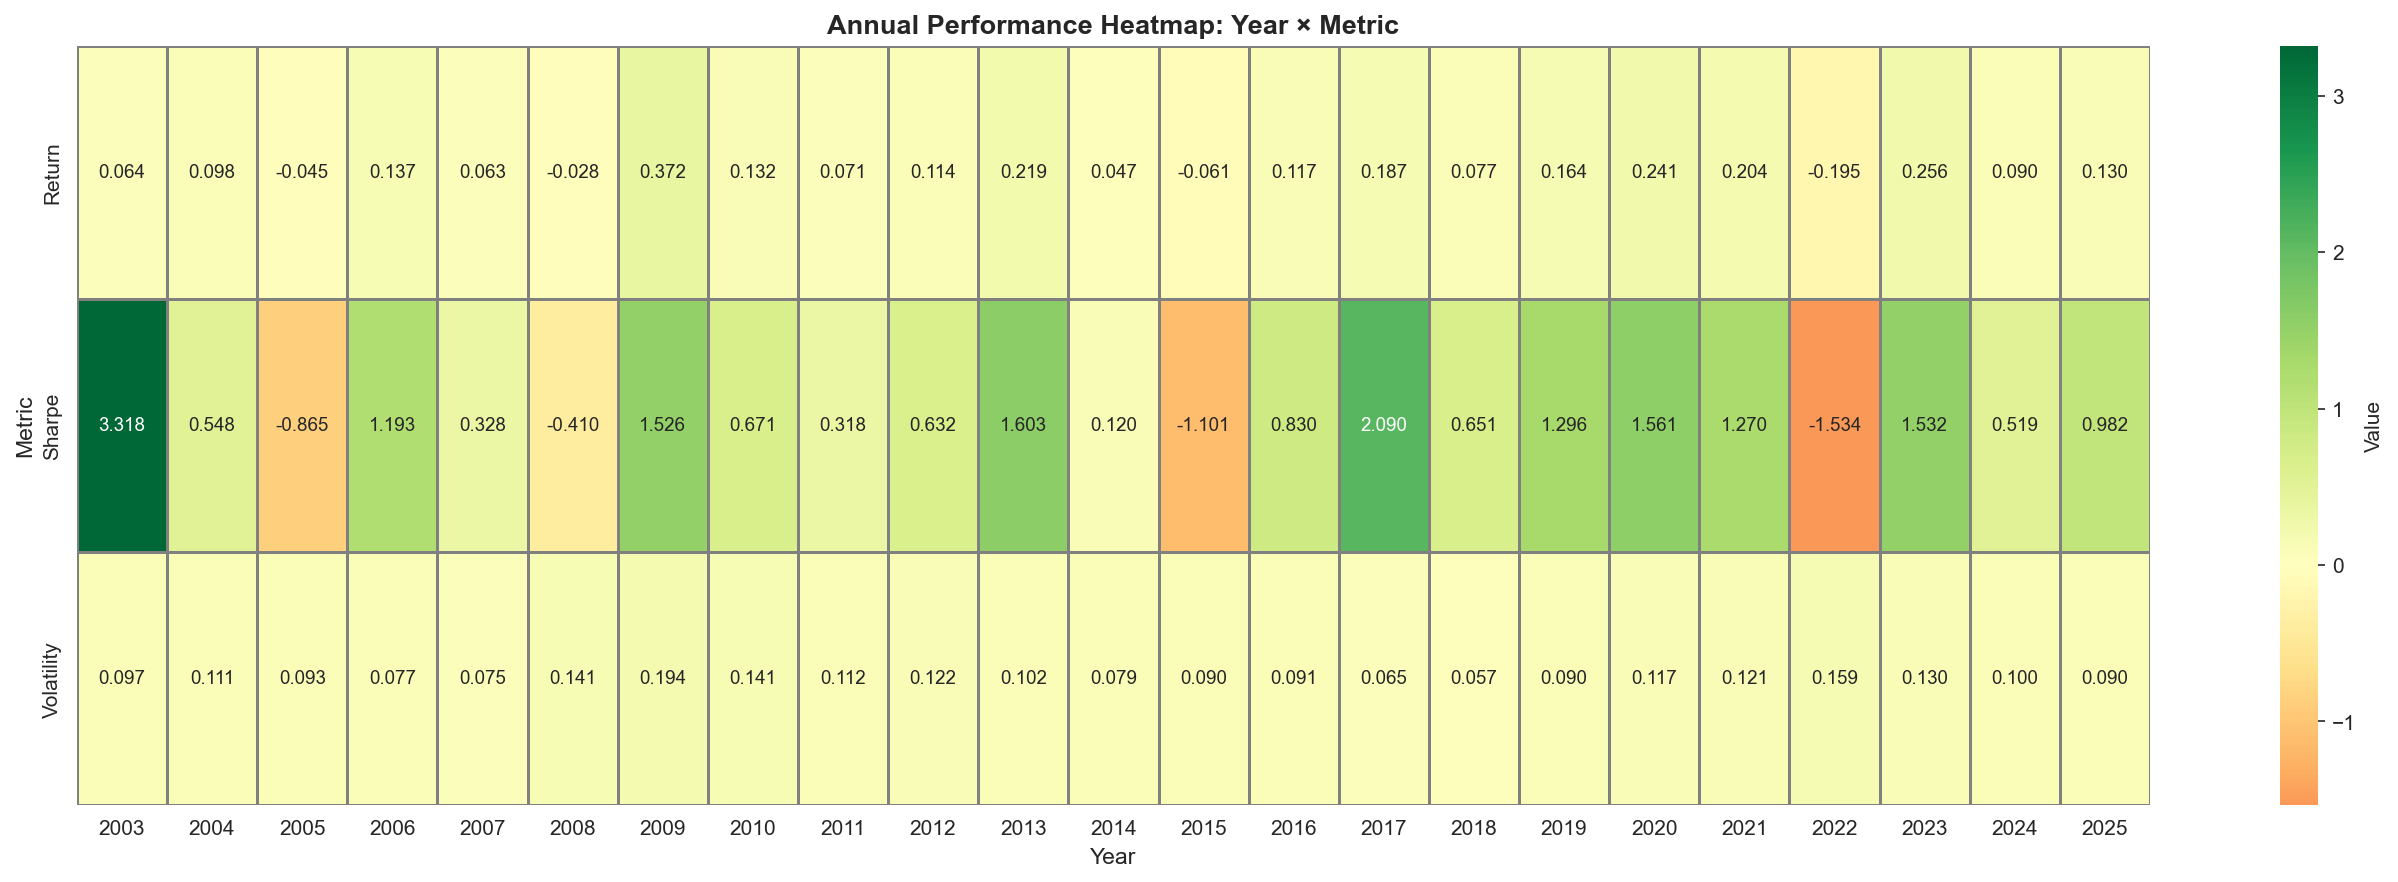
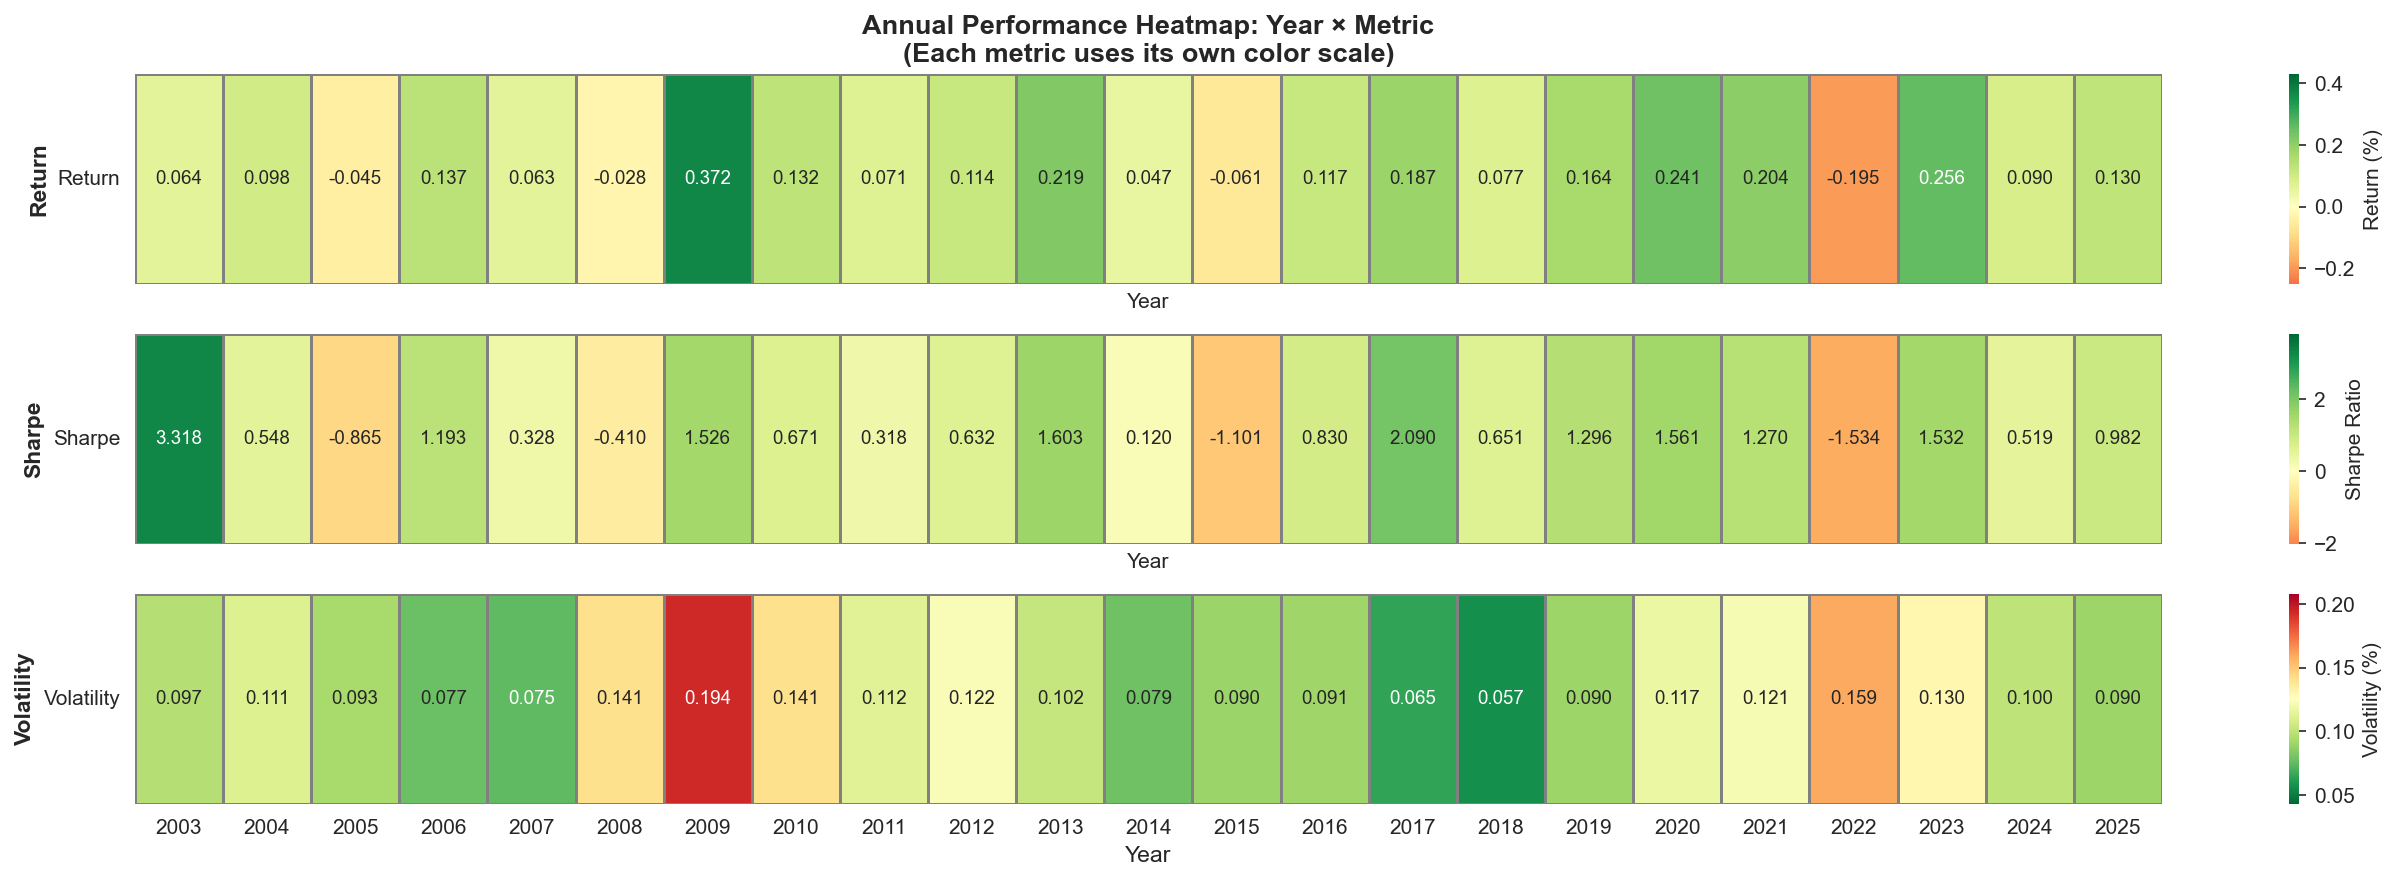
Fix metrics heatmap: Use separate color scales for each metric
- Updated plot_metrics_heatmap() to create separate subplots for each metric
- Each metric (Return, Sharpe, Volatility) now has its own color scale
- Fixes issue where single color scale didn't work across different metric ranges
- Return: 0-40% range, Sharpe: -1 to 3 range, Volatility: 5-20% range
- Volatility uses reversed color scale (green = lower = better)
- Improved readability and meaningful color interpretation

diff --git a/new/src/strategy_performance_analyzer.py b/new/src/strategy_performance_analyzer.py
@@ -8,7 +8,7 @@ Analyzes a trading strategy's performance with comprehensive metrics including:
 - Regime attribution (Bull/Bear Beta)
 - Professional visualizations
 
-Author: Senior Quantitative Developer
+Author: Xi Chen
 Date: 2025-12-18
 """
 
@@ -986,6 +986,7 @@ class StrategyPerformanceAnalyzer:
                             save_path: str = None) -> None:
         """
         Create heatmap: Year × Metric (Return, Sharpe, Volatility).
+        Uses separate color scales for each metric since they have different ranges.
         
         Parameters:
         -----------
@@ -998,17 +999,55 @@ class StrategyPerformanceAnalyzer:
         heatmap_data = annual_perf[['Total_Return', 'Sharpe_Ratio', 'Volatility']].copy()
         heatmap_data.columns = ['Return', 'Sharpe', 'Volatility']
         
-        # Normalize for better visualization (optional - can show raw values)
-        fig, ax = plt.subplots(figsize=(10, max(6, len(heatmap_data) * 0.3)))
+        # Calculate figure size: wider for more years, taller for better cell height
+        num_years = len(heatmap_data)
+        num_metrics = 3
+        fig_width = max(18, num_years * 0.6)  # At least 0.6 units per year (slightly wider)
+        fig_height = max(6, num_metrics * 1.2)  # At least 1.2 units per metric row
         
-        sns.heatmap(heatmap_data.T, annot=True, fmt='.3f', cmap='RdYlGn',
-                   center=0, ax=ax, cbar_kws={'label': 'Value'},
-                   linewidths=0.5, linecolor='gray')
+        fig, axes = plt.subplots(3, 1, figsize=(fig_width, fig_height), sharex=True)
         
-        ax.set_title('Annual Performance Heatmap: Year × Metric',
-                    fontsize=13, fontweight='bold')
-        ax.set_xlabel('Year', fontsize=11)
-        ax.set_ylabel('Metric', fontsize=11)
+        # Define color scales and centers for each metric
+        metrics_config = [
+            ('Return', 'RdYlGn', 0, 'Return (%)'),
+            ('Sharpe', 'RdYlGn', 0, 'Sharpe Ratio'),
+            ('Volatility', 'RdYlGn_r', None, 'Volatility (%)')  # Reversed: lower is better
+        ]
+        
+        for idx, (metric, cmap, center, label) in enumerate(metrics_config):
+            ax = axes[idx]
+            metric_data = heatmap_data[[metric]].T
+            
+            # Set vmin/vmax based on data range for better color distribution
+            vmin = metric_data.min().min()
+            vmax = metric_data.max().max()
+            
+            # Add some padding to the range
+            data_range = vmax - vmin
+            vmin = vmin - 0.1 * data_range
+            vmax = vmax + 0.1 * data_range
+            
+            # For volatility (reversed scale), we want lower to be better (greener)
+            # For return and Sharpe, higher is better (greener)
+            if center is not None:
+                sns.heatmap(metric_data, annot=True, fmt='.3f', cmap=cmap,
+                           center=center, ax=ax, cbar_kws={'label': label},
+                           linewidths=0.5, linecolor='gray',
+                           annot_kws={'size': 9}, vmin=vmin, vmax=vmax)
+            else:
+                # For volatility, use reversed scale without center
+                sns.heatmap(metric_data, annot=True, fmt='.3f', cmap=cmap,
+                           ax=ax, cbar_kws={'label': label},
+                           linewidths=0.5, linecolor='gray',
+                           annot_kws={'size': 9}, vmin=vmin, vmax=vmax)
+            
+            ax.set_ylabel(metric, fontsize=11, fontweight='bold')
+            ax.set_xticklabels([str(int(x)) for x in heatmap_data.index], rotation=0)
+            ax.set_yticklabels([metric], rotation=0)
+        
+        axes[0].set_title('Annual Performance Heatmap: Year × Metric\n(Each metric uses its own color scale)', 
+                         fontsize=13, fontweight='bold')
+        axes[-1].set_xlabel('Year', fontsize=11)
         
         plt.tight_layout()
         if save_path:
